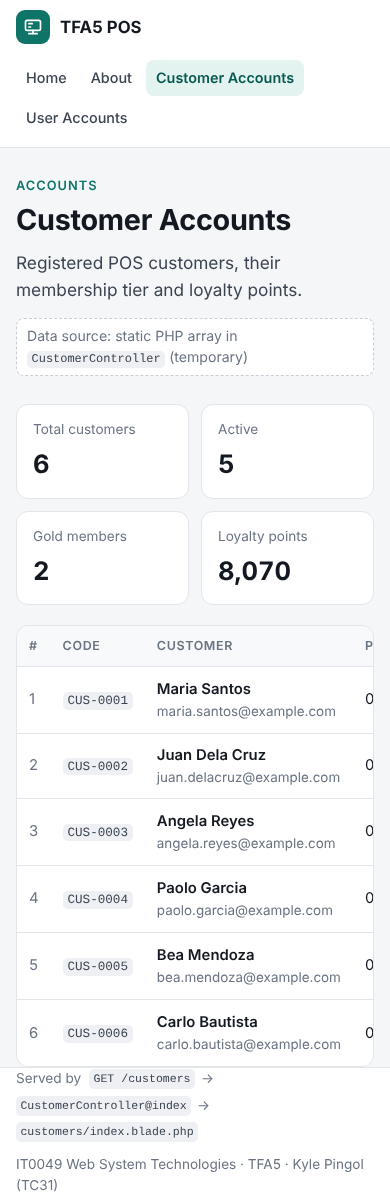
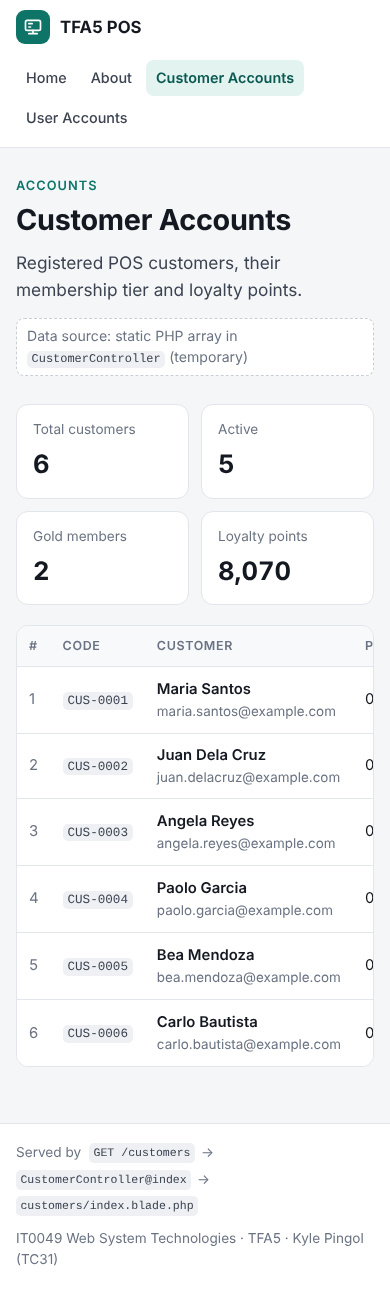
Add phpMyAdmin screenshots and fix mobile page spacing
- docs/screenshots: tfa5_pos tables, customers and users data in XAMPP phpMyAdmin
- Keep bottom padding on small screens so the table doesn't touch the footer

Claude-Session: https://claude.ai/code/session_01AnQ5wHXqyySrbvx9XECpVz

diff --git a/public/css/pos.css b/public/css/pos.css
@@ -477,7 +477,7 @@ h1, h2, h3 { line-height: 1.2; margin: 0; letter-spacing: -.01em; }
 }
 
 @media (max-width: 640px) {
-    .container { padding: 0 16px; }
+    .container { padding-left: 16px; padding-right: 16px; }
     .topbar { position: static; }
     .topbar-inner { padding-top: 10px; padding-bottom: 10px; }
     .nav { width: 100%; }

diff --git a/README.md b/README.md
@@ -131,7 +131,11 @@ php artisan migrate --seed    # answer "yes" if it offers to create the tfa5_pos
 
 Either way you get the `customers` and `users` tables with the same 6 records each that the pages show. All seeded accounts use the demo password `password`.
 
+![phpMyAdmin tables in tfa5_pos](docs/screenshots/phpmyadmin-tables.png)
+
 ![phpMyAdmin customers table](docs/screenshots/phpmyadmin-customers.png)
+
+![phpMyAdmin users table](docs/screenshots/phpmyadmin-users.png)
 
 ---
 
